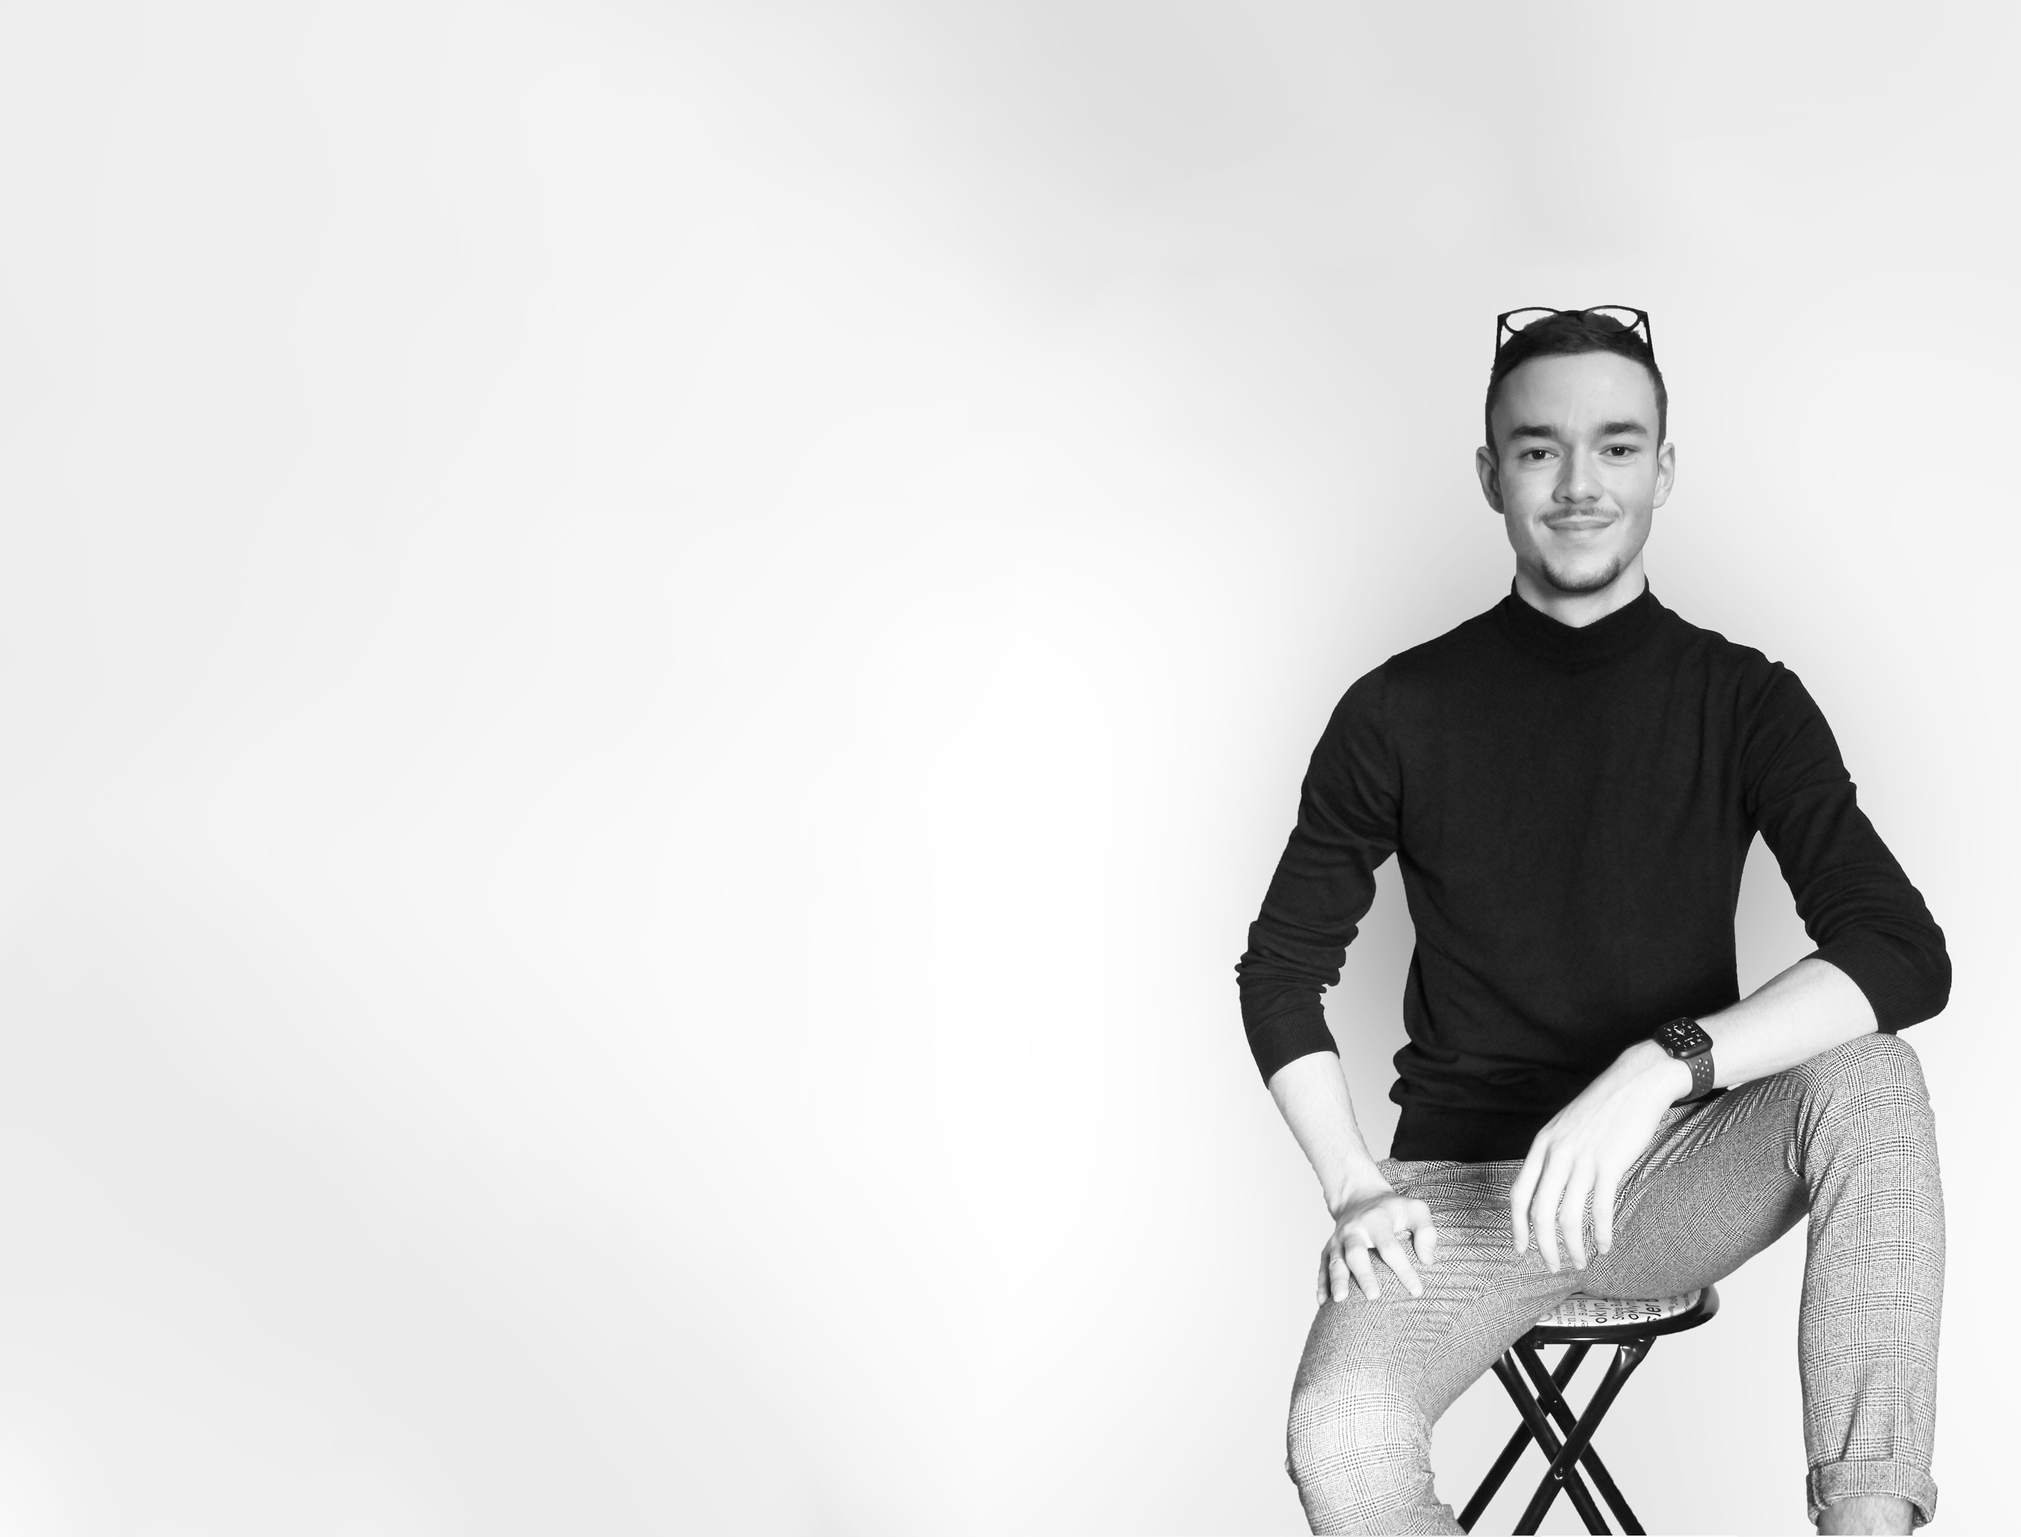
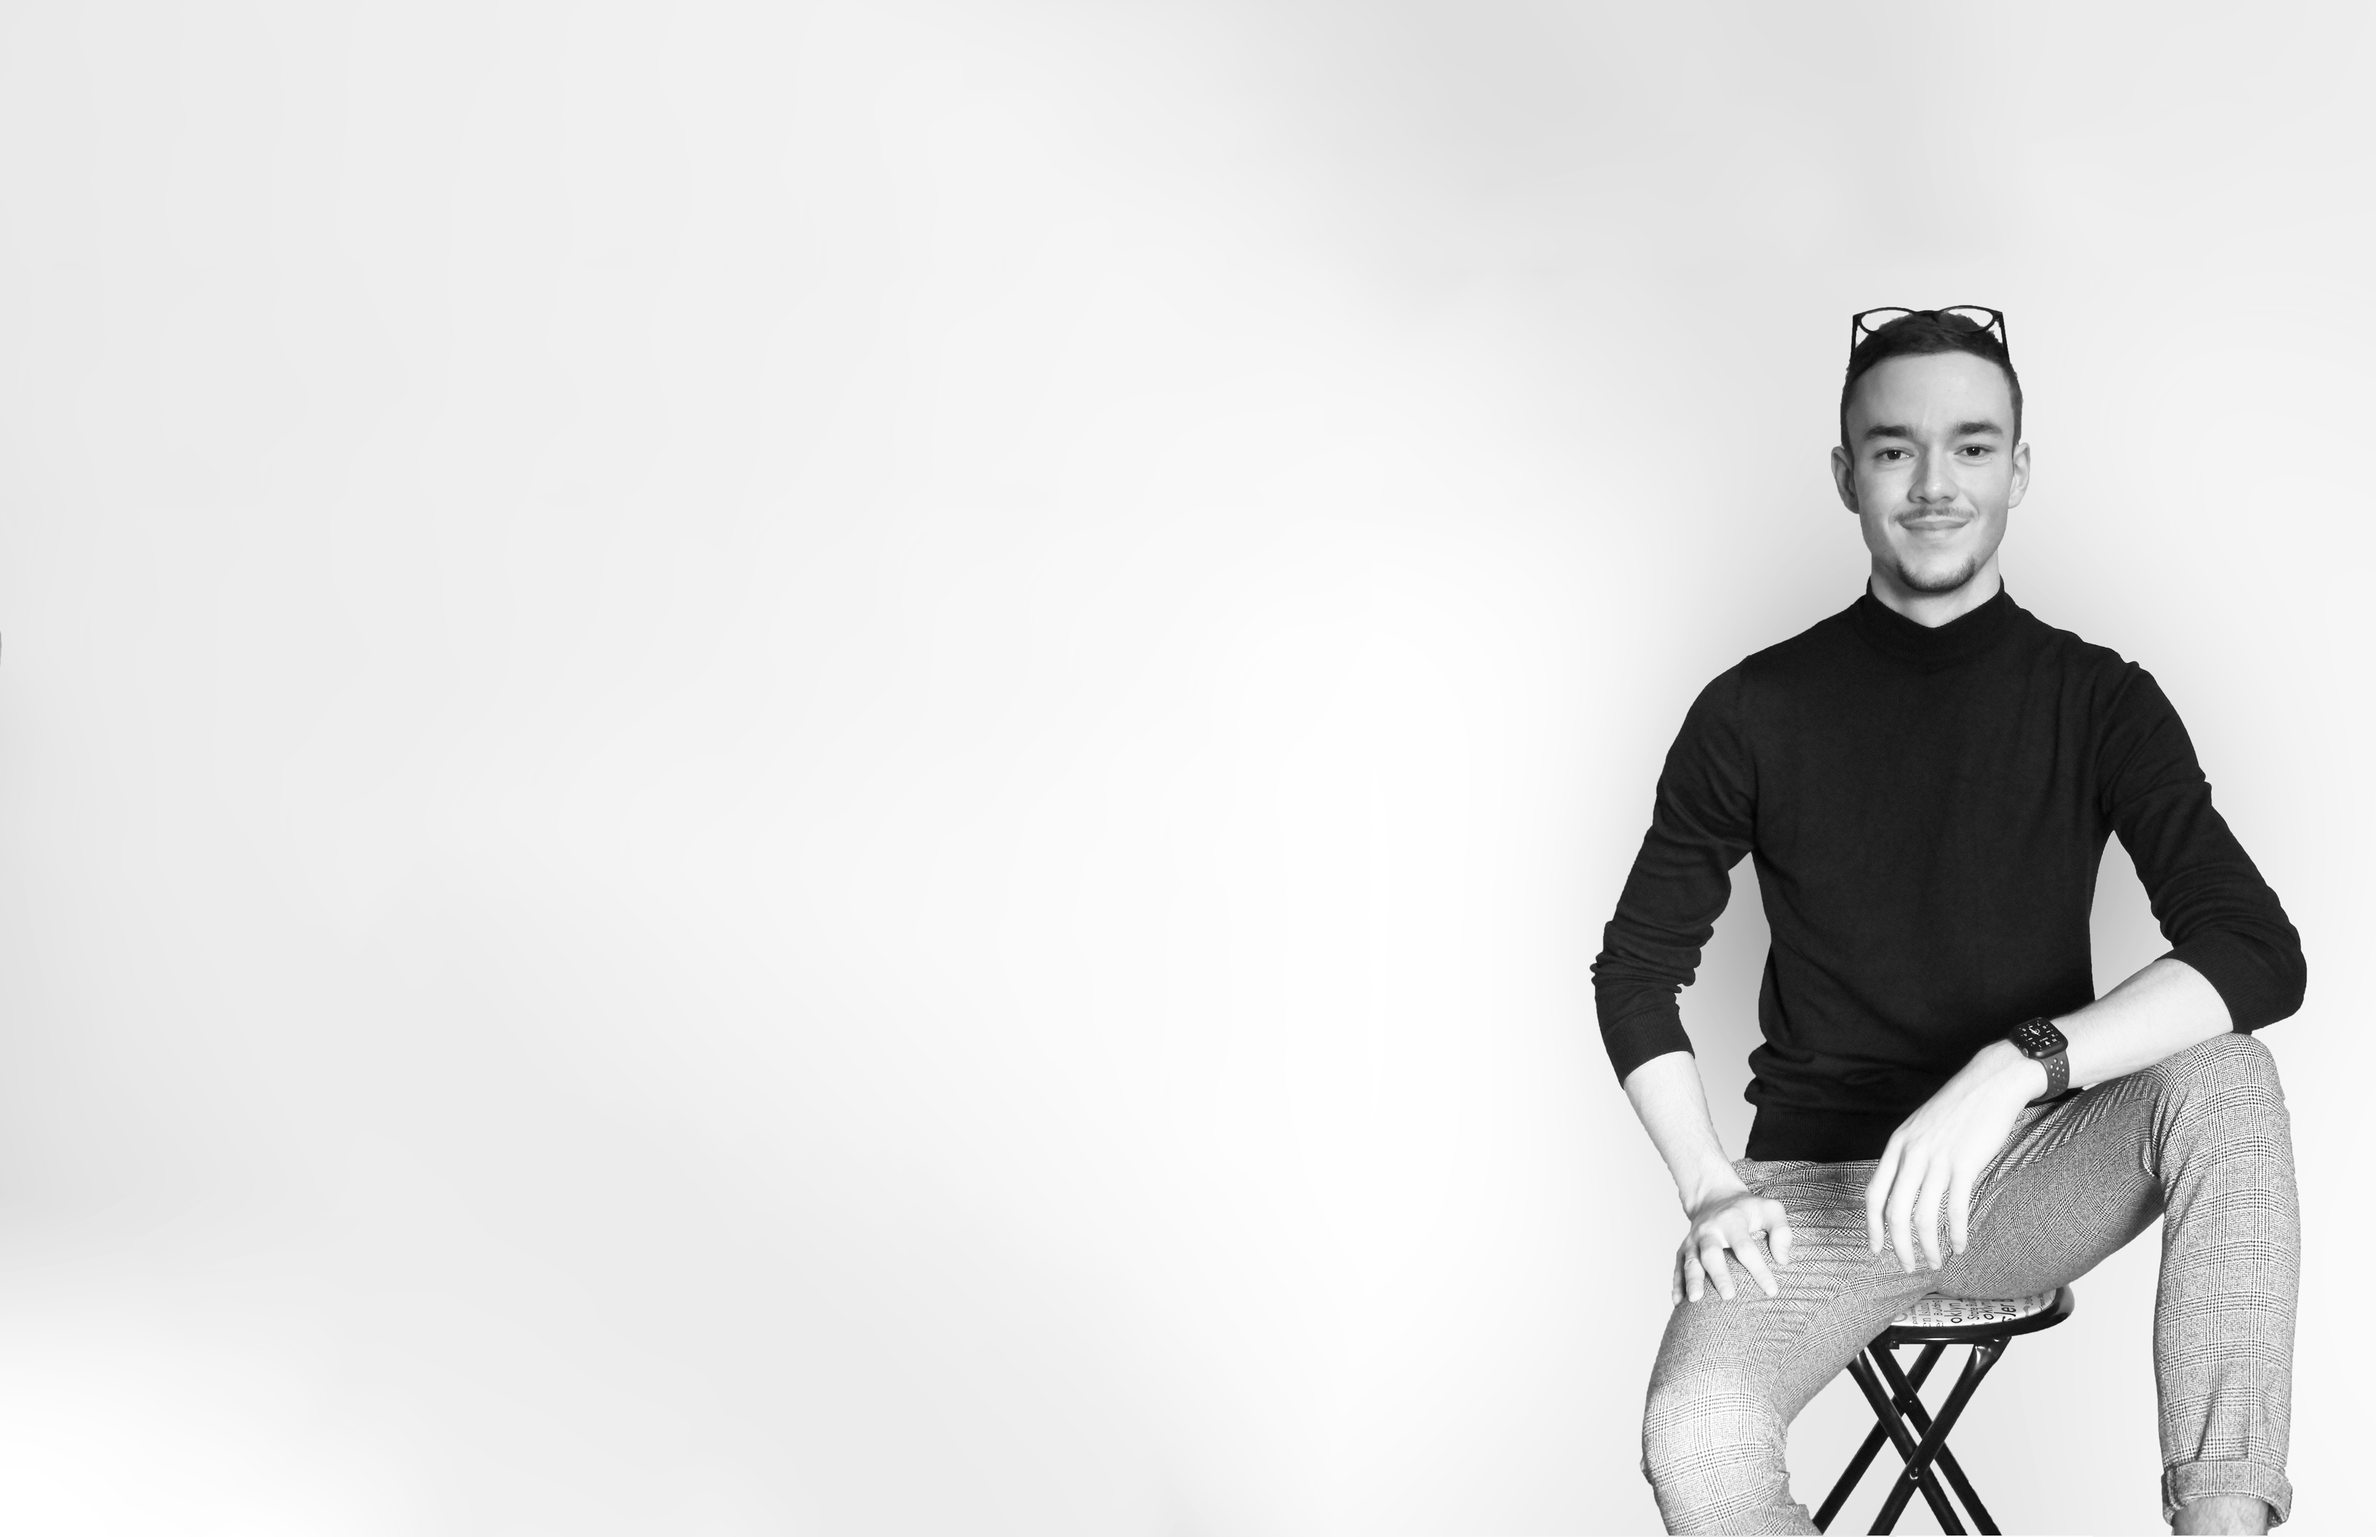
changement du breakpoint desktop et de l'image bg_tablet.png

Changed region(s): [[0.5887, 0.1861, 0.9915, 1.0], [0.9606, 0.5894, 0.9915, 0.6514], [0.9296, 0.5273, 0.9606, 0.5894]]

diff --git a/css/style.css b/css/style.css
@@ -130,7 +130,7 @@ header {
   }
 }
 
-@media screen and (min-width: 992px) {
+@media screen and (min-width: 1200px) {
   .bandeNom {
     height: 80px;
   }

diff --git a/css/style.scss b/css/style.scss
@@ -79,7 +79,7 @@ header {
 
 }
 
-@media screen and (min-width: 992px) {
+@media screen and (min-width: 1200px) {
 
   .bandeNom {
     height: 80px;
